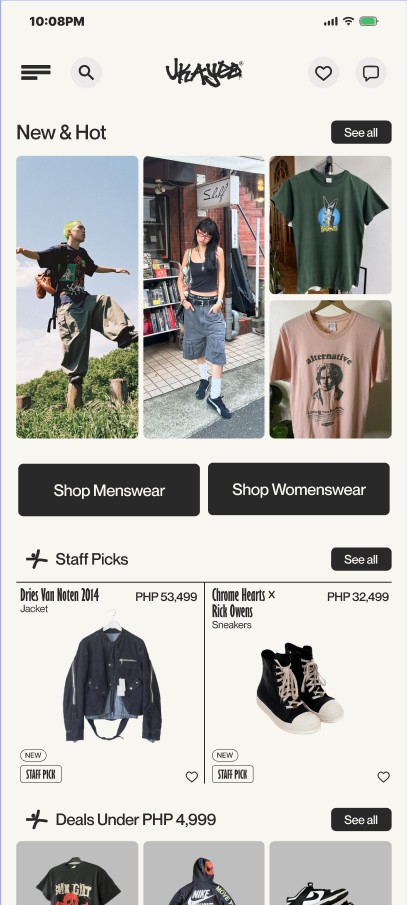
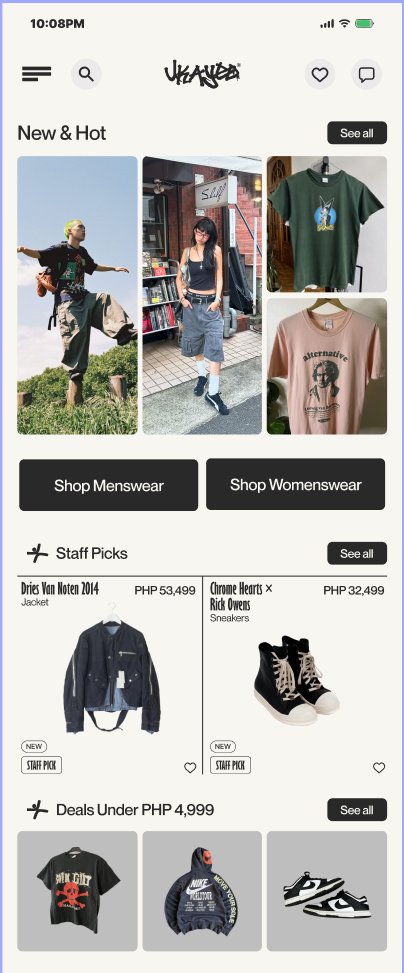
mobile

diff --git a/script.js b/script.js
@@ -53,8 +53,8 @@ const PROJECTS = [
         title: 'Design Approach',
         body: 'I explored a marketplace experience centered on curated collections, product discovery, and accessible pricing. The concept also incorporates a gradual price-reduction model, allowing listed items to decrease in price over time until reaching a seller-defined minimum.',
         images: [
-          { src: 'assets/uxui/ukayed_marketplace.png', span: 3, ratio: '3:7', caption: '...' },
-          { src: 'assets/uxui/ukayed_picks.png', span: 3, ratio: '3:7', caption: '...' },
+          { src: 'assets/uxui/ukayed_marketplace.png', span: 3, ratio: 'auto', caption: '...', fit: 'cover' },
+          { src: 'assets/uxui/ukayed_picks.png', span: 3, ratio: 'auto', caption: '...' },
         ]      
       },
       {
@@ -754,6 +754,7 @@ projRows.forEach(row => {
       wrap.className = 'modal-section';
       const grid = document.createElement('div');
       grid.className = 'bento';
+      if (sec.gap) grid.style.gap = sec.gap;   
       wrap.appendChild(grid);
 
       // text tile
@@ -827,6 +828,19 @@ projRows.forEach(row => {
         }
         if (item.position) el.style.objectPosition = item.position;
         tile.appendChild(el);
+
+        // size the tile to the media's real proportions once they're known
+        // (manual ratio stays as the placeholder; 'auto' and contain tiles are left alone)
+        if (ratio !== 'auto' && item.fit !== 'contain') {
+          const apply = () => {
+            const w = el.naturalWidth || el.videoWidth;
+            const h = el.naturalHeight || el.videoHeight;
+            if (w && h) tile.style.setProperty('--ratio', w + '/' + h);
+          };
+          if (item.type === 'video') el.addEventListener('loadedmetadata', apply);
+          else if (el.complete && el.naturalWidth) apply();
+          else el.addEventListener('load', apply);
+        }
 
         if (item.caption) {
           const cap = document.createElement('figcaption');

diff --git a/style.css b/style.css
@@ -223,6 +223,8 @@
     .project-modal{padding:30px 18px;}
     .tile[data-span="1"],.tile[data-span="2"],.tile[data-span="3"]{grid-column:span 3;}
     .tile[data-span="4"],.tile[data-span="5"],.tile[data-span="6"]{grid-column:1/-1;}
+    .tile.tile-text[data-span]{grid-column:1/-1;}
+    .tile.tile-media:only-of-type{grid-column:1/-1;}
     .tile-text-inner{position:static;max-height:none;overflow:visible;}
   }
 
